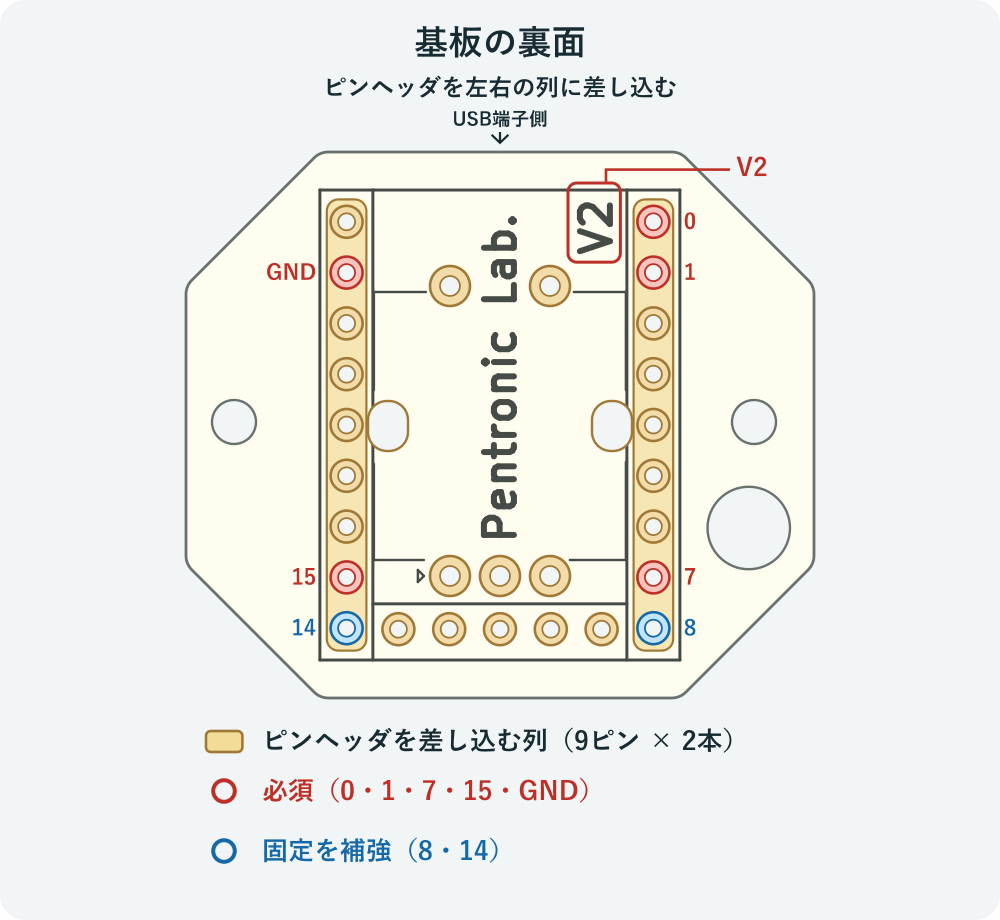
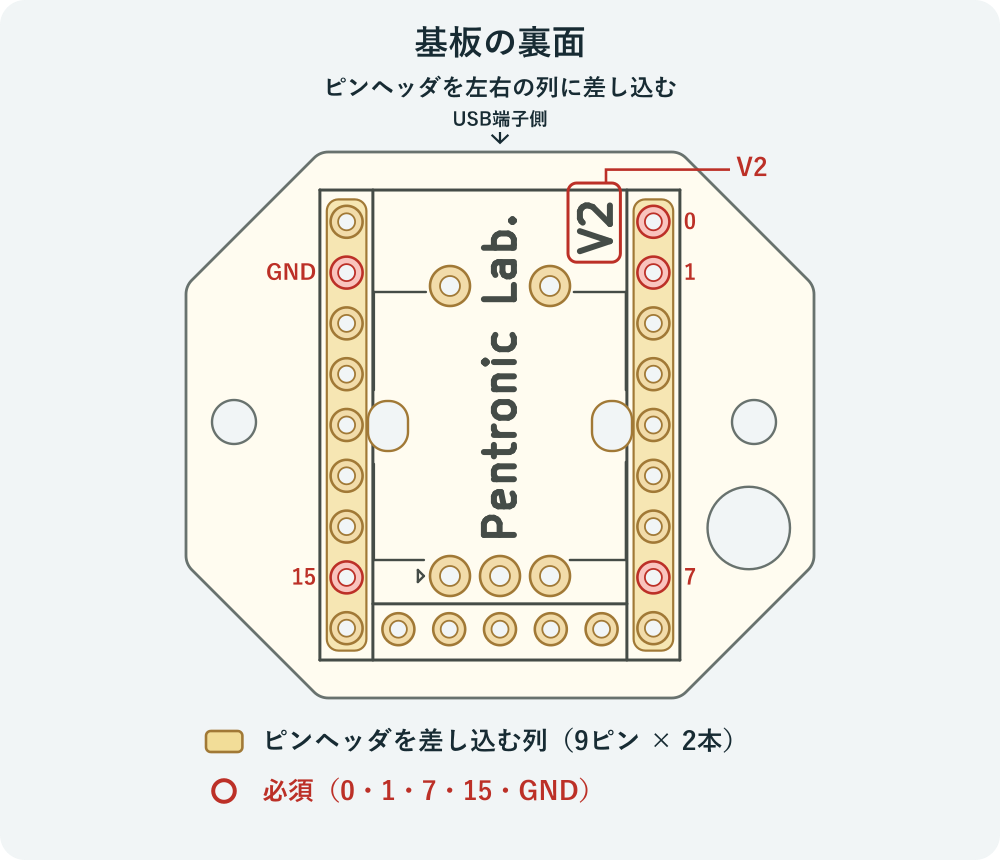
Mark only the required rev2 solder joints

diff --git a/keyboards/petitcuru_rev2/README.md b/keyboards/petitcuru_rev2/README.md
@@ -57,7 +57,7 @@
 
 ![ピンヘッダの向き。長い足はエンコーダーの軸と反対側に出る](../assets/petitcuru/pinheader_1.jpg)
 
-エンコーダーの軸がある表面から、下の図で赤く示した **0・1・7・15・GND** の5点をはんだ付けします。青い **8・14** もはんだ付けすると、ピンヘッダの固定を補強できます。列のピンをすべてはんだ付けしても大丈夫です。
+エンコーダーの軸がある表面から、下の図で赤く示した **0・1・7・15・GND** の5点をはんだ付けします。
 
 ![rev2 基板の表面。左列の上から0、1と下から2番目の7、右列の上から2番目のGNDと下から2番目の15が必須](../assets/petitcuru_rev2/pcb-front.png)
 
@@ -77,7 +77,7 @@
 
 ![白いボタンが外側を向いた RP2040-Zero。取り付け向きの参考写真](../assets/petitcuru/rp2040-zero_1.jpg)
 
-RP2040-Zero 側でも **0・1・7・15・GND** の5点をはんだ付けします。メイン基板側で **8・14** もはんだ付けした場合は、RP2040-Zero 側でも同じピンをはんだ付けします。USB をつなぐ前に、隣のピンとはんだがつながっていないか確認してください。
+RP2040-Zero 側でも **0・1・7・15・GND** の5点をはんだ付けします。USB をつなぐ前に、隣のピンとはんだがつながっていないか確認してください。
 
 ### 5. ファームウェアを書き込む
 
